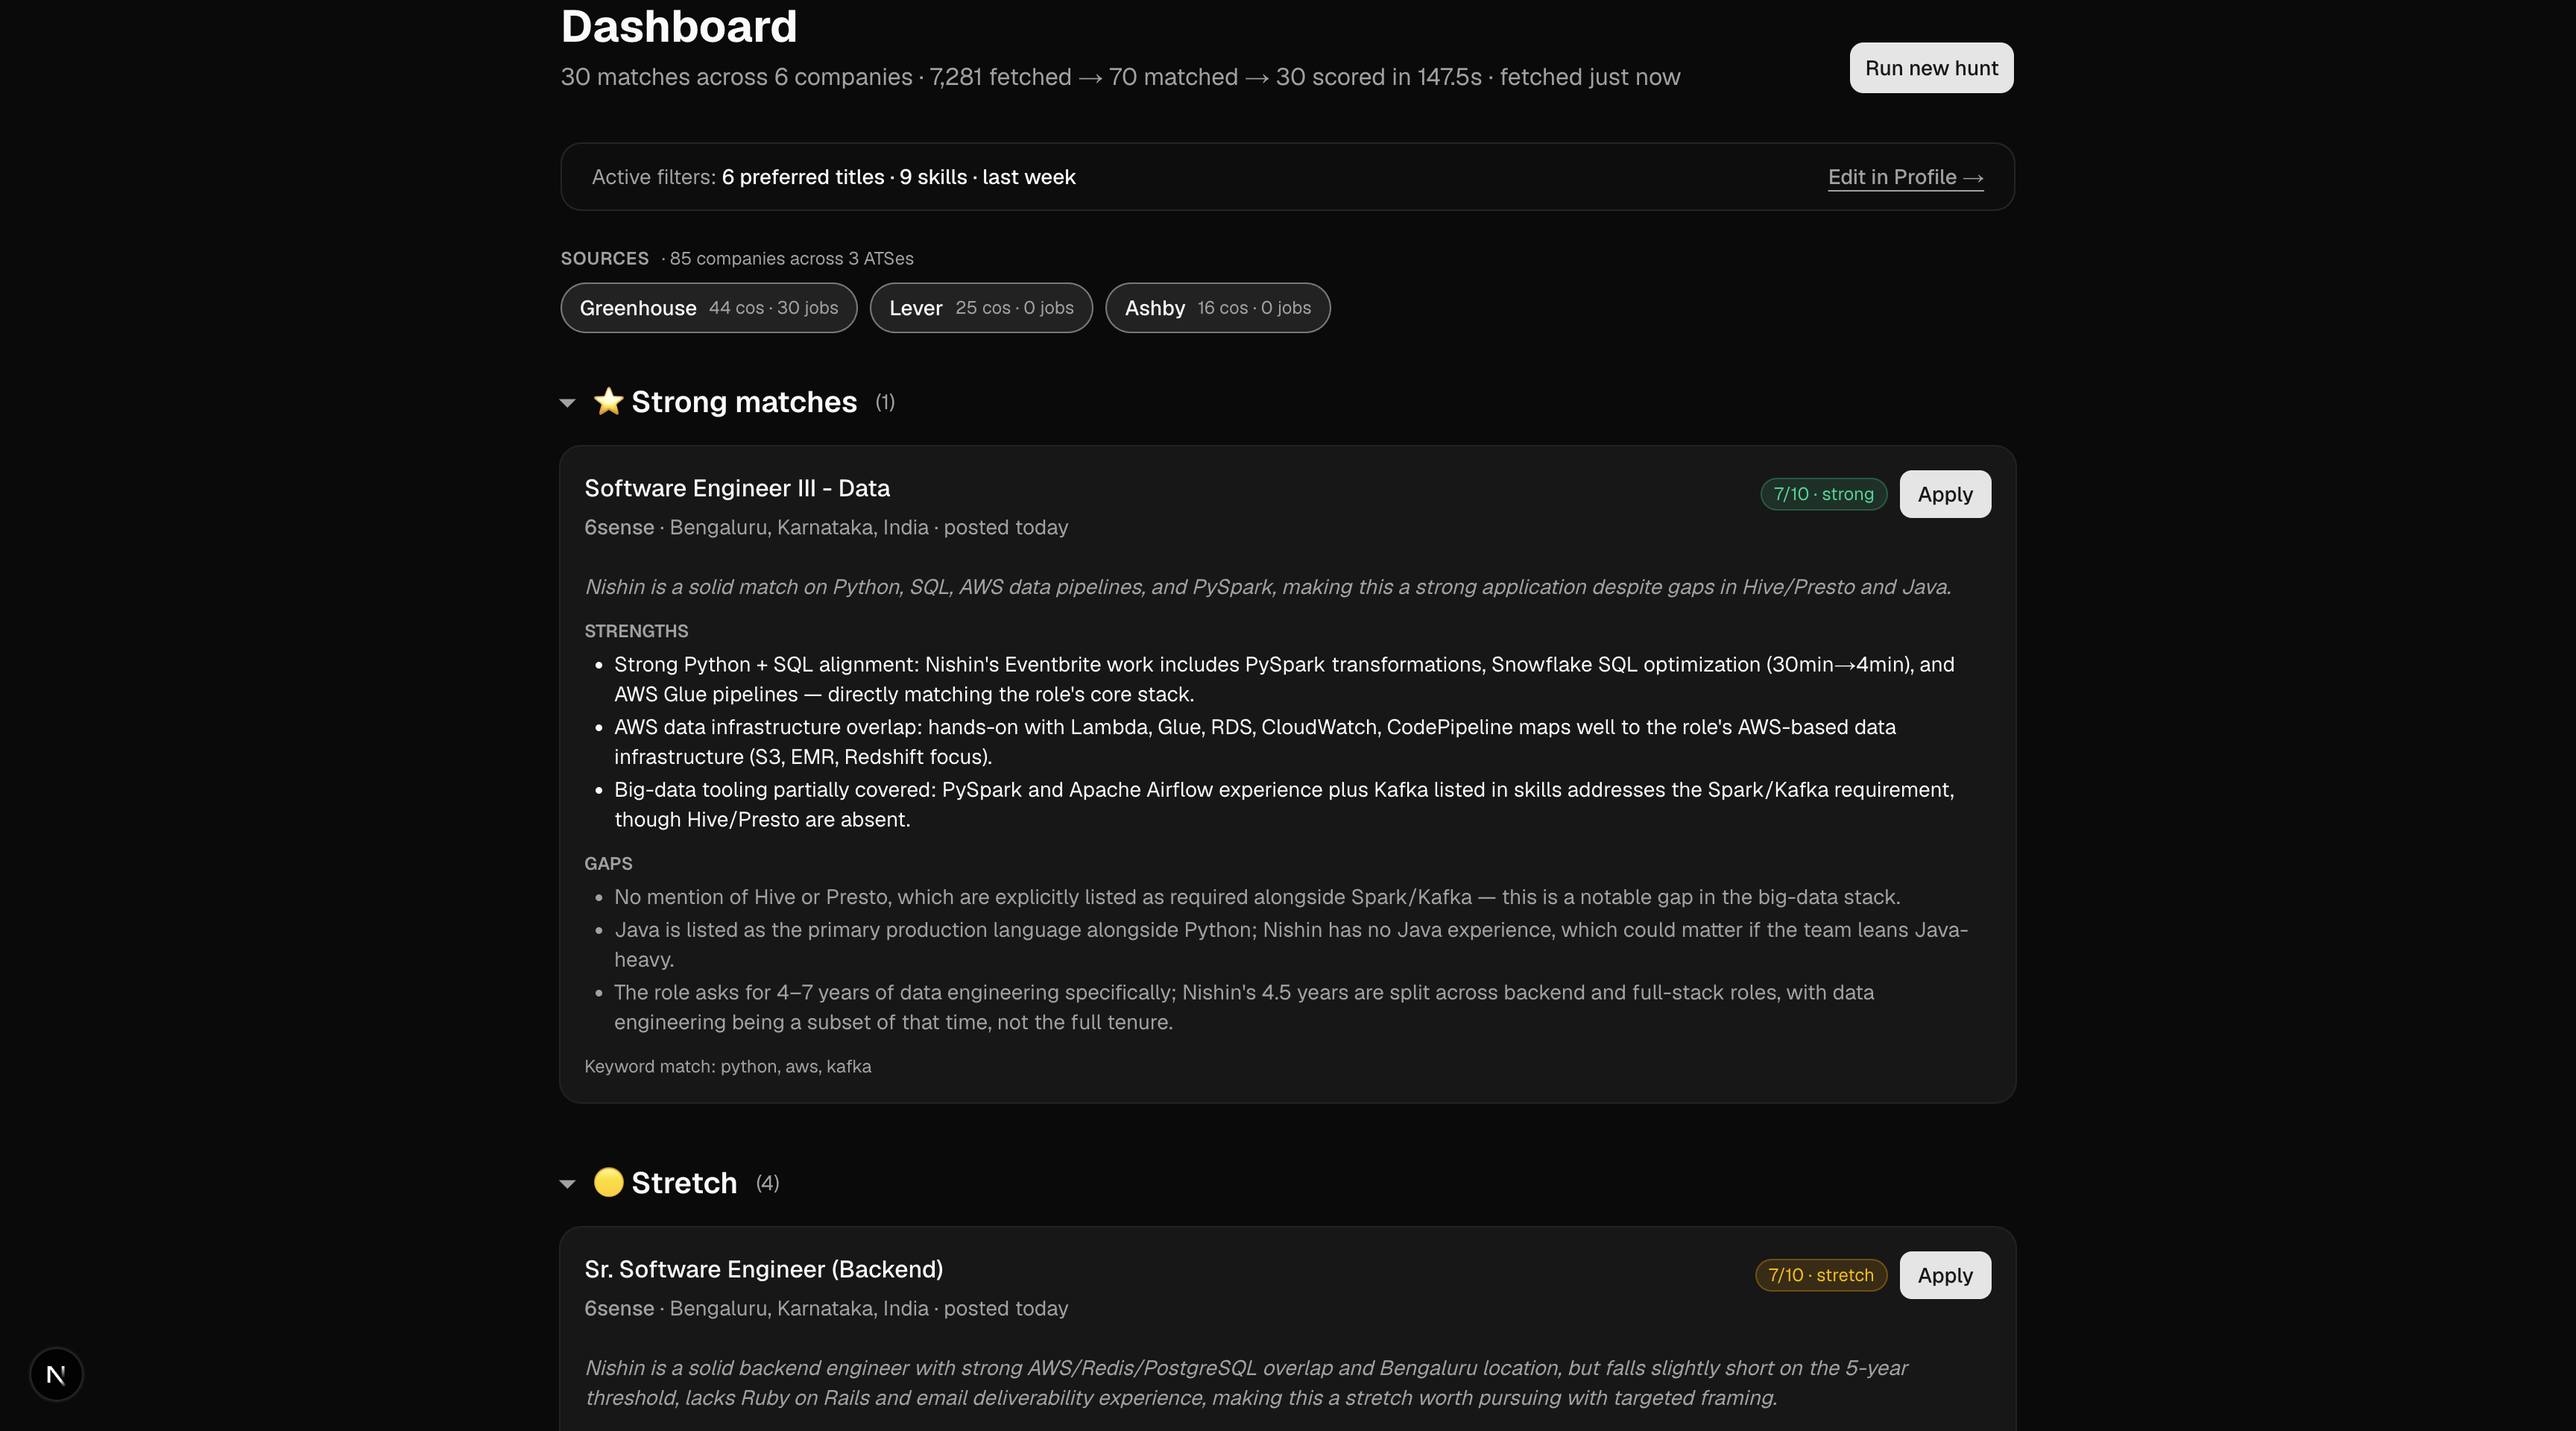
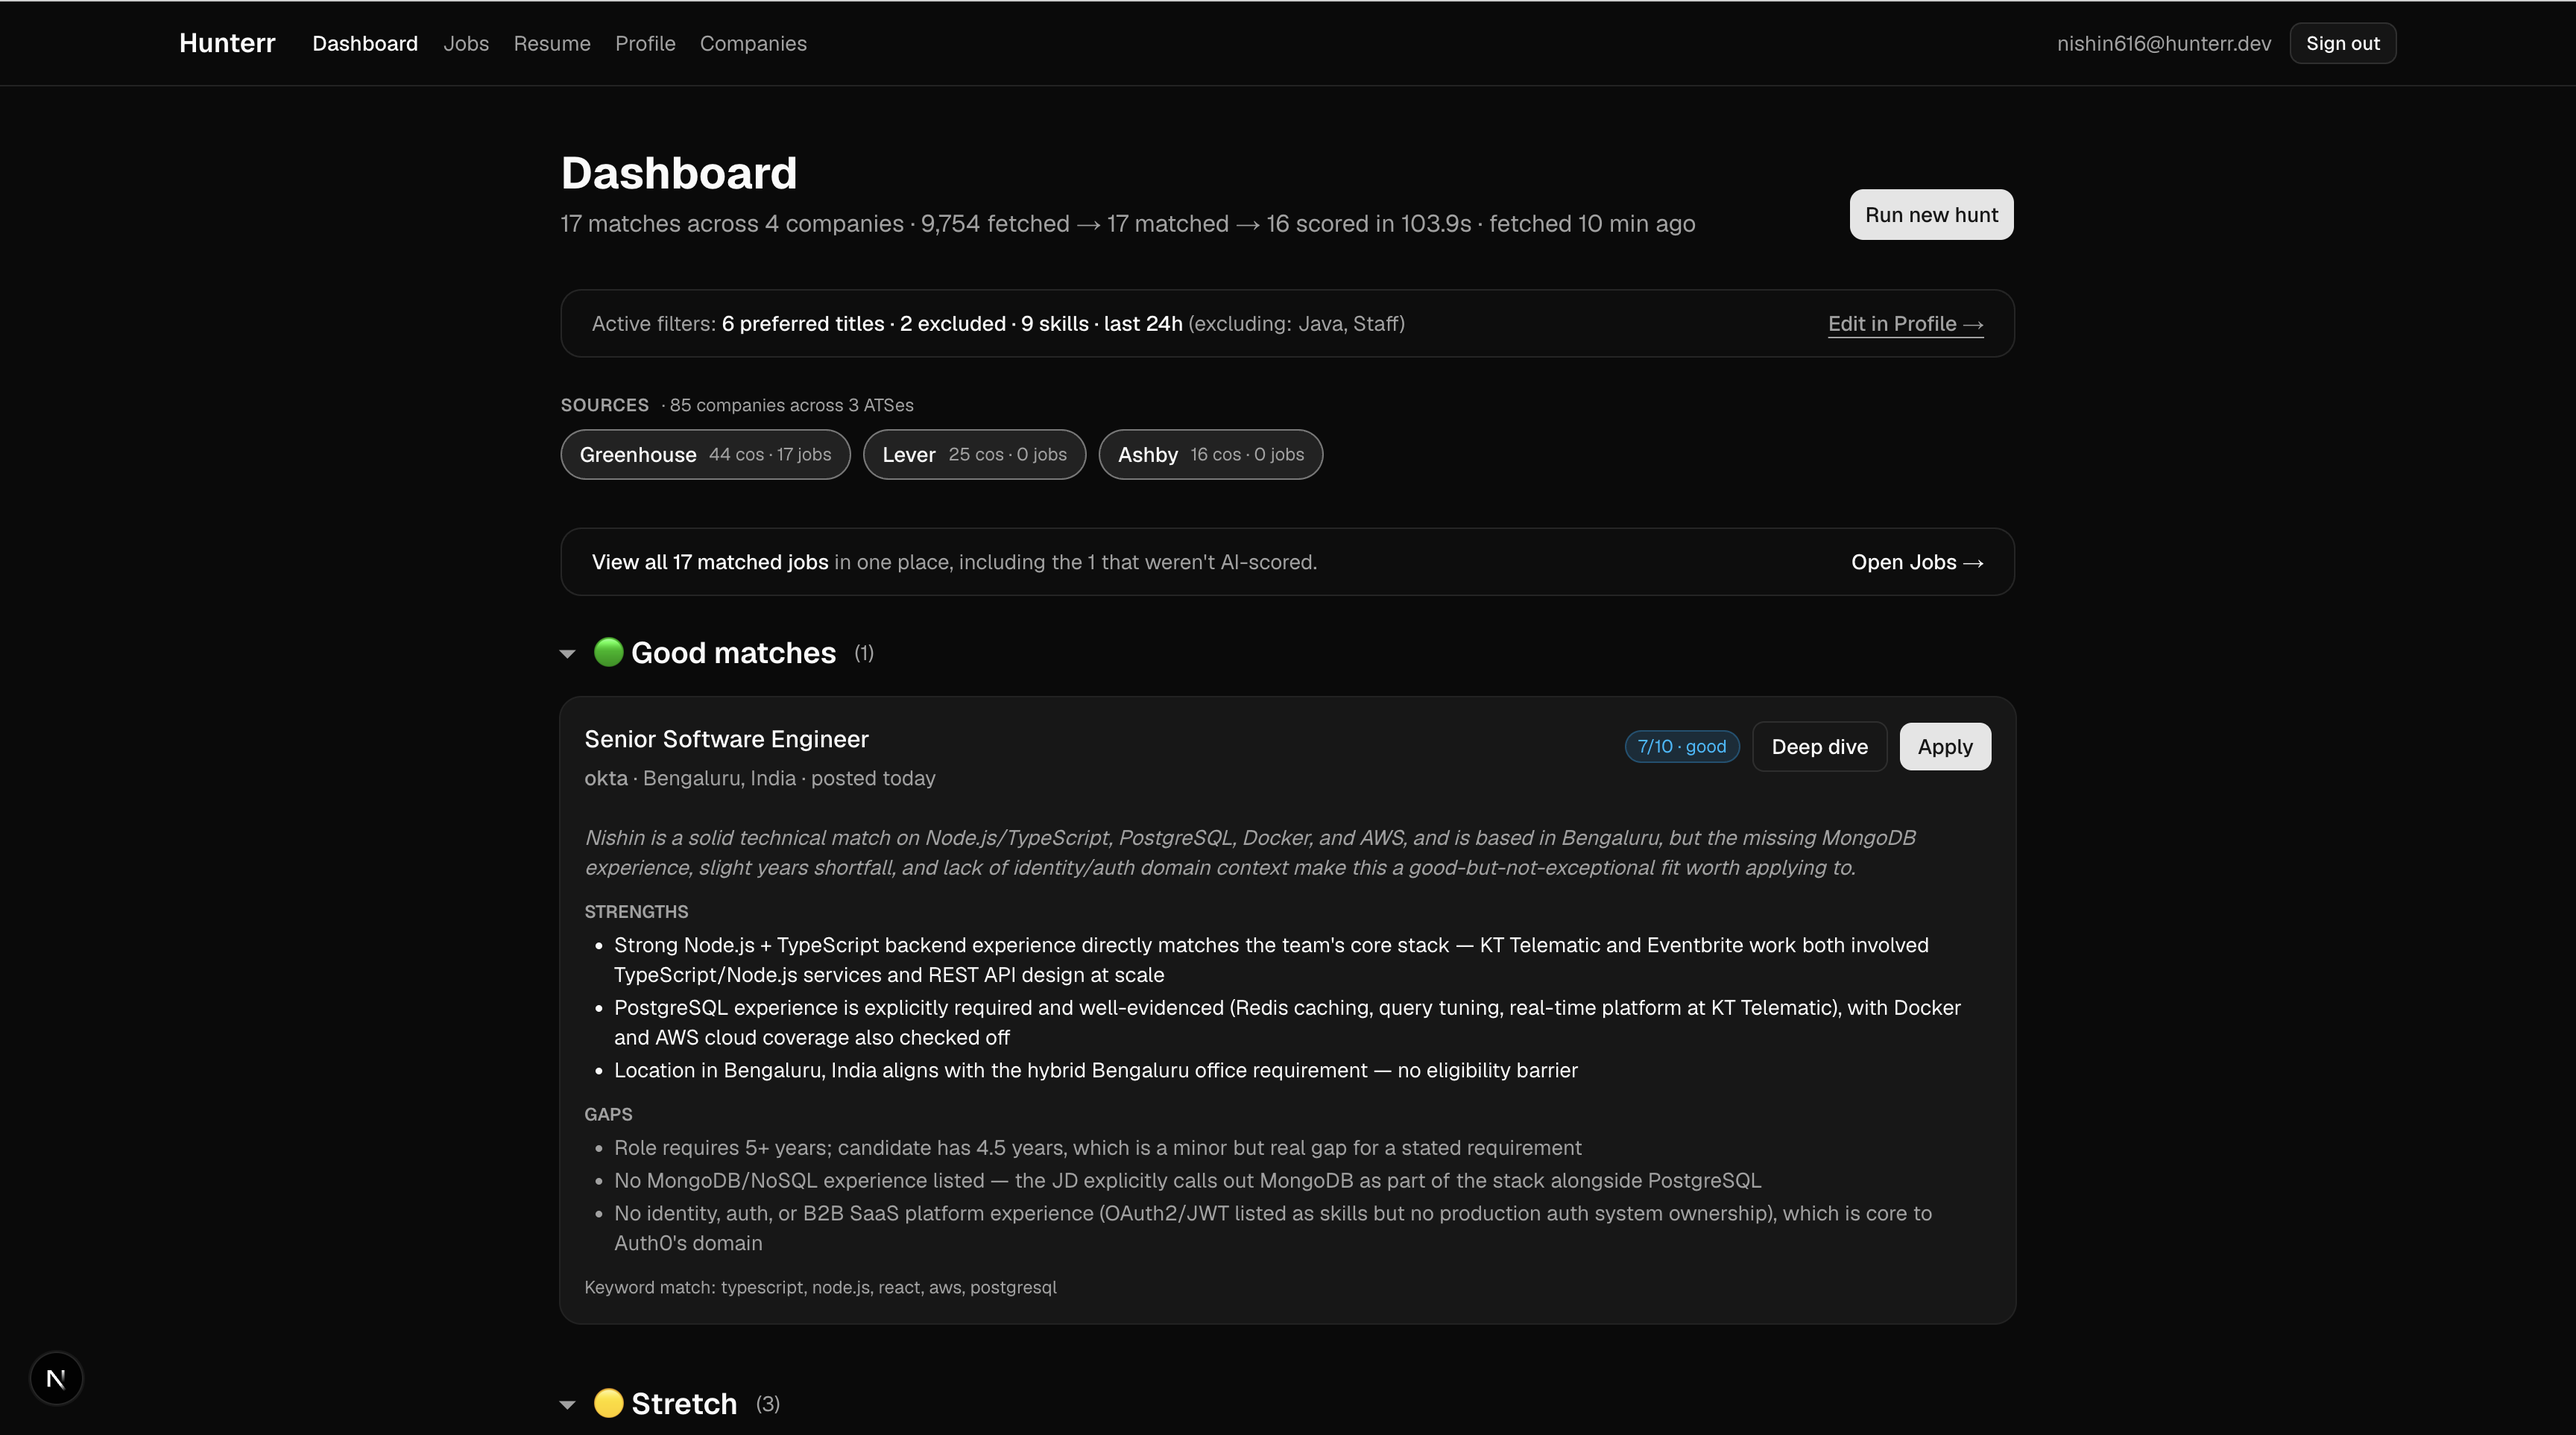
update homepage

diff --git a/src/app/page.tsx b/src/app/page.tsx
@@ -24,6 +24,20 @@ const SHOTS: {
     sub: "Every role gets a verdict, a 1-10 fit score, concrete strengths and gaps.",
   },
   {
+    src: "/screenshots/jobs.png",
+    alt: "All jobs view, filterable list with search and verdict filters",
+    tag: "Jobs",
+    caption: "Every match, searchable and filterable",
+    sub: "Filter by verdict, search by company or title, drill into any role for an on-demand deep dive.",
+  },
+  {
+    src: "/screenshots/deep-dive.png",
+    alt: "Per-job deep dive panel, agent-generated company brief, gap analysis, cover letter and resume rewrites",
+    tag: "Deep dive",
+    caption: "An agent that researches each role on demand",
+    sub: "Company brief, gap analysis, tailored cover letter, and resume rewrites — generated by a Claude tool-use agent in 30–90s.",
+  },
+  {
     src: "/screenshots/progress.png",
     alt: "Live hunt progress, fetching, filtering and scoring stages",
     tag: "Live run",

diff --git a/README.md b/README.md
@@ -18,25 +18,25 @@ Two AI surfaces, each chosen for what it's actually good at.
 1. **Crawl** — public Greenhouse, Lever, and Ashby APIs in parallel. ~9,000 postings in a few seconds.
 2. **Filter** — title, exclude-title, location, posting-age, skill keywords. Word-boundary matching.
 3. **Triage (LLM step)** — one Claude Haiku call ranks the matched pool down to the top 30 by seniority + skill fit.
-4. **Score (LLM step)** — each of the 30 goes to Claude Sonnet with your resume prompt-cached. Returns a verdict (strong / stretch / skip), 1–10 score, strengths, gaps. ~$0.20–0.50 per run.
+4. **Score (LLM step)** — each of the 30 goes to Claude Sonnet with your resume prompt-cached. Returns a verdict (strong / good / stretch / skip), 1–10 score, strengths, gaps. ~$0.20–0.50 per run.
 
 **Per-job deep dive — an agent** (Claude in a tool-use loop, choosing what to do next):
 
 Click *Deep dive* on any scored job. The agent has two tools — `fetch_url` and
-`save_finding` — and runs up to 10 turns to produce up to six grounded sections:
+`save_finding` — and runs up to 10 turns to produce up to four grounded sections:
 
 - **Company brief** — what they do, stage/funding, leadership, red flags. Skipped when the JD alone doesn't carry enough signal (no web-search tool).
-- **Tech stack reality check** — what the engineering blog says they use vs. what the JD claims. Skipped unless the JD links somewhere the agent can `fetch_url`.
 - **Deep gap analysis** — concrete overlaps and gaps between your resume and the JD, citing exact phrases from both.
 - **Tailored cover letter** — ~250 words, specific, no platitudes; references your linked GitHub/portfolio when relevant.
-- **Resume bullet rewrites** — which bullets to emphasize, drop, or reword for this JD, in before/after form.
-- **Questions to ask them** — 4–6 interviewer questions that show you did the research.
+- **Resume bullet rewrites** — which bullets to emphasize, reword, or *add* (when the candidate has clear evidence of a JD-required skill that isn't on the resume yet), in before/after form.
 
 The agent decides which sections to attempt based on what its tools surface
 and skips any section it can't ground in fact rather than fabricating. Hard
-caps on searches, fetches, and iterations keep spend at ~$0.25 per dive.
-Results stream live into the dashboard and persist per-job in Postgres, so
-reopening the panel shows the prior dive without re-running.
+caps on fetches and iterations keep spend at ~$0.25 per dive. Results stream
+live into the dashboard and persist per-job in Postgres, so reopening the
+panel shows the prior dive without re-running.
+
+![Deep-dive panel showing the agent's activity log and the generated sections](public/screenshots/deep-dive.png)
 
 The split: predictable, low-cost bulk discovery; high-touch per-job depth on
 demand.
